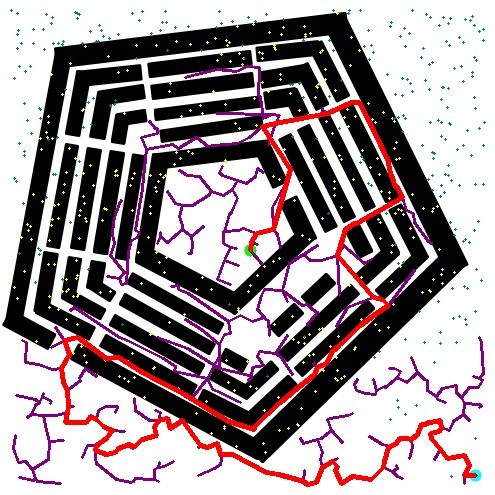
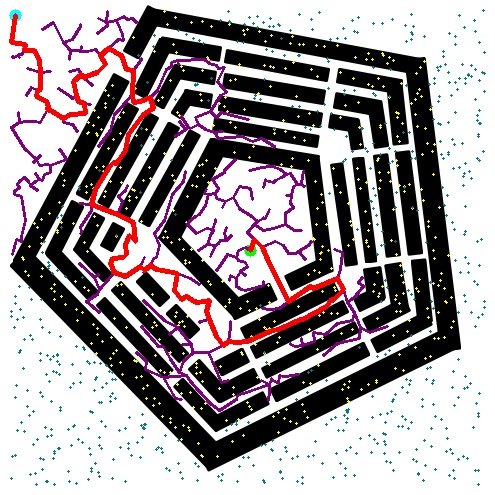
Fully completed works on the house floor plan, have not tested for the pentagon

diff --git a/CPMR3/ros2_ws/src/cpmr_ch2/cpmr_ch2/readImage.py b/CPMR3/ros2_ws/src/cpmr_ch2/cpmr_ch2/readImage.py
@@ -7,7 +7,8 @@ import time
 from scipy.spatial import KDTree
 
 numberOfNodes = 1500
-map = cv2.imread('rotated_dllated.jpg')
+fileName = "NewFloorPlanEddited.jpg"
+map = cv2.imread(fileName)
 
 # colour scheme
 purple = (86,70,115)
@@ -152,6 +153,7 @@ def buildMap():
         # print(v.x)
         cv2.circle(map, (v.x,v.y), v.radius, v.color, thickness=-1)
 
+    cv2.imwrite("_PrelineMap"+ fileName ,map)
     return listOfVertix
 
 #=======================================================================================================================================
@@ -207,18 +209,20 @@ def mainRead(start_x = 250, start_y = 250, finish_x = 15, finish_y = 15):
         
         print('\n')  
     while(newNode.prev != None):
-        rrt.append((newNode.x/10.0,newNode.y/10.0))
+        pointInX = (newNode.x/10.0)
+        pointInY = 63.5- (newNode.y/10.0)
+        rrt.append((pointInX,pointInY))
         print(f"Location: {newNode.x} , {newNode.y}")
         drawLine(newNode, newNode.prev,(0, 0, 255), 4) 
         newNode = newNode.prev
 
-    cv2.imwrite("output_image.jpg",map)
+    cv2.imwrite("_output_image"+fileName,map)
     # cv2.imshow('colour-based', map)
     # cv2.waitKey(0)
     # cv2.destroyAllWindows()
 
-    for r in rrt:
-        print(r)
+    # for r in rrt:
+    #     print(r)
 
     return rrt
 
@@ -235,20 +239,24 @@ def movingInRos(listOfNodes):
 
     command = "" 
     listOfNodes.reverse()
-    for r in listOfNodes:
-        print(r)
+    
+    with open('wayPoints.txt', 'w') as file:
+        # Write content to the file
+        for r in listOfNodes:
+            file.write(f'{r}\n')
+
     print("\n\n\nWORKING ON MOVEMENT \n\n\n")
     for i in listOfNodes:
+        print(f"{i[0]}, {i[1]}")
         command = f"ros2 param set /drive_to_goal newGoal \"{i[0]} & {i[1]}\"" 
         result = subprocess.run(command, shell=True, stdout=subprocess.PIPE, stderr=subprocess.PIPE, text=True)
         print("Errors:", result.stderr)
         # Print the return code
         print("Return code:", result.returncode)
         print("Output:", result.stdout)
-        time.sleep(5)
-def parseFiles(): 
-    pass
-# call maain
-listOfNodes = mainRead()
+        time.sleep(1.0)
+# def parseFiles(): 
+#     pass
+listOfNodes = mainRead(start_x=150,start_y=500,finish_x=600,finish_y=350)
 x = input("____________________\n PRESS TO CONINTUE \n________________\n")
 movingInRos(listOfNodes)

diff --git a/CPMR3/ros2_ws/src/cpmr_ch2/cpmr_ch2/temp.py b/CPMR3/ros2_ws/src/cpmr_ch2/cpmr_ch2/temp.py
@@ -16,3 +16,46 @@
 
 # print("Output:", result.stdout)
 # x = input("PRESS TO CONINTUE")
+# Open a file in read mode
+
+
+import time 
+import subprocess
+with open('waypoints.txt', 'r') as file:
+    # Read the file line by line
+    for line in file:
+        output = line.strip()
+        print(output)
+        i = output[1:-1].split(',')
+
+        print("\n\n\nWORKING ON MOVEMENT \n\n\n")
+        command = f"ros2 param set /drive_to_goal newGoal \"{i[0]} & {i[1]}\"" 
+        result = subprocess.run(command, shell=True, stdout=subprocess.PIPE, stderr=subprocess.PIPE, text=True)
+        print("Errors:", result.stderr)
+        # Print the return code
+        print("Return code:", result.returncode)
+        print("Output:", result.stdout)
+        time.sleep(2)
+
+
+# with open('waypoints.txt', 'r') as file:
+#     # Read the file line by line
+#     for line in file:
+#         output = line.strip()
+#         print(output)
+#         numbers = output[1:-1].split(',')
+#           # strip() removes the newline character at the end of each line
+
+# # Given string
+# string = "(28,81)"
+
+# # Remove parentheses and split the string at the comma
+# numbers = string[1:-1].split(',')
+
+# # Convert the strings to integers
+# number1 = int(numbers[0])
+# number2 = int(numbers[1])
+
+# # Print the result
+# print("Number 1:", number1)
+# print("Number 2:", number2)
